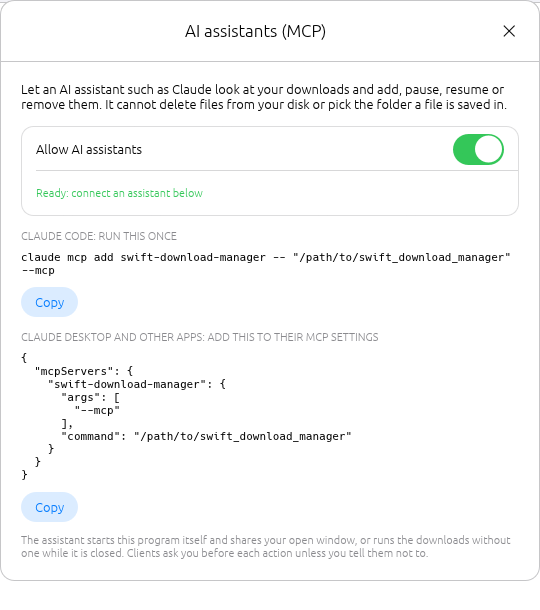
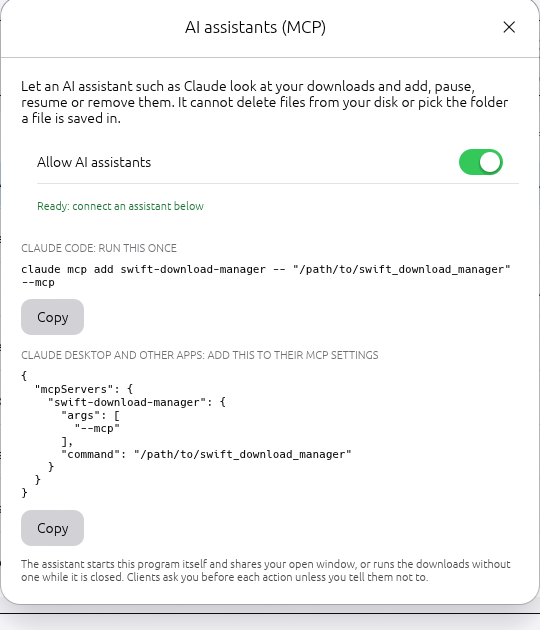
feat(ui): appearance choice in Options, ink colours for text, and docs for the two designs
Options gets an Appearance card (design and mode). Coloured text uses the -ink tokens so it keeps its
contrast in light mode. The README, changelog and screenshots show Drishti (default) and iOS, light
and dark.

diff --git a/source/src/app/tools.rs b/source/src/app/tools.rs
@@ -100,11 +100,11 @@ impl App {
                         ui.label(RichText::new("No links yet.").color(crate::theme::current(ui.ctx()).secondary));
                     }
                     Err(e) => {
-                        ui.colored_label(crate::theme::current(ui.ctx()).red, e);
+                        ui.colored_label(crate::theme::current(ui.ctx()).red_ink, e);
                     }
                 }
                 if let Some(e) = &b.error {
-                    ui.colored_label(crate::theme::current(ui.ctx()).red, e);
+                    ui.colored_label(crate::theme::current(ui.ctx()).red_ink, e);
                 }
                 ui.add_space(6.0);
                 let ok = urls.as_ref().is_ok_and(|l| !l.is_empty());
@@ -190,7 +190,7 @@ impl App {
                 });
                 let bad = (s.start_on && normalize_time(&s.start_time).is_empty()) || (s.stop_on && normalize_time(&s.stop_time).is_empty());
                 if bad {
-                    ui.colored_label(crate::theme::current(ui.ctx()).red, "Write times as hours and minutes, e.g. 02:30 or 23:15.");
+                    ui.colored_label(crate::theme::current(ui.ctx()).red_ink, "Write times as hours and minutes, e.g. 02:30 or 23:15.");
                 }
                 ui.label(RichText::new(format!("Time now: {}", chrono::Local::now().format("%H:%M"))).color(crate::theme::current(ui.ctx()).secondary));
                 ui.add_space(6.0);
@@ -361,7 +361,7 @@ impl App {
                 ui.add_space(4.0);
                 ui.add(egui::TextEdit::singleline(&mut r.url).desired_width(500.0));
                 if let Some(e) = &r.error {
-                    ui.colored_label(crate::theme::current(ui.ctx()).red, e);
+                    ui.colored_label(crate::theme::current(ui.ctx()).red_ink, e);
                 }
                 ui.add_space(4.0);
                 button_row(ui, |ui| {
@@ -415,7 +415,7 @@ impl App {
                             ui.label(format!("{}  ·  {}", human_size(item.total()), item.folder.display()));
                         });
                     });
-                    ui.add(egui::Label::new(RichText::new(&item.url).color(crate::theme::current(ui.ctx()).blue)).truncate());
+                    ui.add(egui::Label::new(RichText::new(&item.url).color(crate::theme::current(ui.ctx()).blue_ink)).truncate());
                     if let Some(c) = &item.check {
                         ui.label(c);
                     }
@@ -461,9 +461,9 @@ impl App {
             .anchor(egui::Align2::CENTER_CENTER, [0.0, -20.0])
             .show(ctx, |ui| {
                 match (&self.listener, self.settings.browser_listen) {
-                    (Ok(()), _) => ui.colored_label(crate::theme::current(ui.ctx()).green, format!("● Ready: the app accepts downloads from the browser (port {}).", bridge::PORT)),
+                    (Ok(()), _) => ui.colored_label(crate::theme::current(ui.ctx()).green_ink, format!("● Ready: the app accepts downloads from the browser (port {}).", bridge::PORT)),
                     (Err(_), false) => ui.colored_label(crate::theme::current(ui.ctx()).secondary, "○ Turned off in Options."),
-                    (Err(e), true) => ui.colored_label(crate::theme::current(ui.ctx()).red, format!("● Not available: {e}. Another copy of the app may be open.")),
+                    (Err(e), true) => ui.colored_label(crate::theme::current(ui.ctx()).red_ink, format!("● Not available: {e}. Another copy of the app may be open.")),
                 };
                 ui.add_space(6.0);
                 ui.label("The browser add-on sends the downloads you start in Chrome, Edge, Brave or Firefox to this app, and adds “Download with Swift Download Manager” when you right-click a link.");
@@ -520,9 +520,9 @@ impl App {
                     card_row(ui, true, |ui| {
                         let (text, col) = match state {
                             AiState::Off => ("Off: assistants are refused", pal.secondary),
-                            AiState::Unavailable => ("Another copy of the app owns the downloads, so this window cannot be controlled", pal.orange),
-                            AiState::Ready => ("Ready: connect an assistant below", pal.green),
-                            AiState::Active => ("An assistant is using it right now", pal.blue),
+                            AiState::Unavailable => ("Another copy of the app owns the downloads, so this window cannot be controlled", pal.orange_ink),
+                            AiState::Ready => ("Ready: connect an assistant below", pal.green_ink),
+                            AiState::Active => ("An assistant is using it right now", pal.blue_ink),
                         };
                         ui.label(RichText::new(text).size(11.0).color(col));
                     });

diff --git a/source/src/app/dialogs.rs b/source/src/app/dialogs.rs
@@ -3,7 +3,8 @@
 use super::*;
 use crate::engine;
 use crate::widgets::segment_bar;
-use crate::widgets::{button_row, card, dialog_window, group_title, plain_button, primary_button, spinner, tinted_button, toggle, toggle_row};
+use crate::theme::{ThemeMode, ThemeStyle};
+use crate::widgets::{button_row, card, card_row, dialog_window, group_title, plain_button, primary_button, segmented, spinner, tinted_button, toggle, toggle_row};
 use eframe::egui::RichText;
 
 fn browse_folder(current: &mut String) {
@@ -28,7 +29,7 @@ impl App {
             .anchor(egui::Align2::CENTER_CENTER, [0.0, -40.0])
             .show(ctx, |ui| {
                 if let Some(src) = &d.from_outside {
-                    ui.colored_label(crate::theme::current(ui.ctx()).blue, format!("ℹ {src}"));
+                    ui.colored_label(crate::theme::current(ui.ctx()).blue_ink, format!("ℹ {src}"));
                     ui.add_space(4.0);
                 }
                 egui::Grid::new("add_grid").num_columns(2).spacing([10.0, 8.0]).show(ui, |ui| {
@@ -89,7 +90,7 @@ impl App {
                     });
                 });
                 if let Some(e) = &d.error {
-                    ui.colored_label(crate::theme::current(ui.ctx()).red, e);
+                    ui.colored_label(crate::theme::current(ui.ctx()).red_ink, e);
                 }
                 ui.add_space(6.0);
                 button_row(ui, |ui| {
@@ -149,7 +150,7 @@ impl App {
                     .show(ctx, |ui| {
                         egui::Grid::new(("pg", id)).num_columns(2).spacing([14.0, 4.0]).show(ui, |ui| {
                             ui.label("Address");
-                            ui.add(egui::Label::new(RichText::new(&item.url).color(crate::theme::current(ui.ctx()).blue)).truncate());
+                            ui.add(egui::Label::new(RichText::new(&item.url).color(crate::theme::current(ui.ctx()).blue_ink)).truncate());
                             ui.end_row();
                             ui.label("Status");
                             let s = match st {
@@ -406,7 +407,7 @@ impl App {
                             ui.label(RichText::new("Checking…").color(crate::theme::current(ui.ctx()).secondary));
                         }
                         if let Some(c) = &item.check {
-                            let col = if c.contains("NOT") { crate::theme::current(ui.ctx()).red } else if c.contains("matches") { crate::theme::current(ui.ctx()).green } else { crate::theme::current(ui.ctx()).secondary };
+                            let col = if c.contains("NOT") { crate::theme::current(ui.ctx()).red_ink } else if c.contains("matches") { crate::theme::current(ui.ctx()).green_ink } else { crate::theme::current(ui.ctx()).secondary };
                             let r = ui.add(egui::Label::new(RichText::new(c).color(col)).truncate().sense(egui::Sense::click()));
                             if r.on_hover_text("Click to copy").clicked() {
                                 ui.ctx().copy_text(c.trim_start_matches("SHA-256: ").to_string());
@@ -489,6 +490,17 @@ fn options_body(ui: &mut egui::Ui, s: &mut Settings, result: &mut Option<bool>) 
             toggle_row(ui, "Watch the clipboard and offer to download copied file links", &mut s.watch_clipboard, false);
             toggle_row(ui, "Accept downloads from the browser add-on (restart to apply)", &mut s.browser_listen, false);
             ui.add_enabled_ui(s.browser_listen, |ui| toggle_row(ui, "Start browser downloads straight away without asking", &mut s.browser_start_now, true));
+        });
+        group_title(ui, "Appearance");
+        card(ui, |ui| {
+            card_row(ui, false, |ui| {
+                ui.label("Design");
+                button_row(ui, |ui| segmented(ui, &[(ThemeStyle::Drishti, "Drishti"), (ThemeStyle::Ios, "iOS")], &mut s.theme_style));
+            });
+            card_row(ui, true, |ui| {
+                ui.label("Mode");
+                button_row(ui, |ui| segmented(ui, &[(ThemeMode::System, "Automatic"), (ThemeMode::Light, "Light"), (ThemeMode::Dark, "Dark")], &mut s.theme));
+            });
         });
         group_title(ui, "AI assistants");
         card(ui, |ui| {

diff --git a/source/src/app/view.rs b/source/src/app/view.rs
@@ -380,13 +380,13 @@ impl App {
                     status_chip(ui, (active > 0).then_some(pal.green), &format!("{active} active"), pal.secondary);
                     status_chip(ui, None, &format!("{queued} queued"), pal.secondary);
                     if !running.is_empty() {
-                        status_chip(ui, Some(pal.green), &format!("Running: {}", running.join(", ")), pal.green);
+                        status_chip(ui, Some(pal.green), &format!("Running: {}", running.join(", ")), pal.green_ink);
                     }
                     if let Some((q, t)) = &scheduled {
-                        status_chip(ui, Some(pal.blue), &format!("{q} starts at {t}"), pal.blue);
+                        status_chip(ui, Some(pal.blue), &format!("{q} starts at {t}"), pal.blue_ink);
                     }
                     if self.settings.limit_on {
-                        status_chip(ui, Some(pal.orange), &format!("Speed limit {} KB/s", self.settings.limit_kbps), pal.orange);
+                        status_chip(ui, Some(pal.orange), &format!("Speed limit {} KB/s", self.settings.limit_kbps), pal.orange_ink);
                     }
                     ui.with_layout(egui::Layout::right_to_left(egui::Align::Center), |ui| {
                         let s = if speed > 0.0 { human_speed(speed) } else { "0 B/s".into() };
@@ -395,7 +395,7 @@ impl App {
                             let (txt, dot, col) = match &self.listener {
                                 Ok(()) => ("Browser: connected", Some(pal.green), pal.secondary),
                                 Err(_) if !self.settings.browser_listen => ("Browser: off", None, pal.secondary),
-                                Err(_) => ("Browser: unavailable", Some(pal.red), pal.red),
+                                Err(_) => ("Browser: unavailable", Some(pal.red), pal.red_ink),
                             };
                             if status_chip(ui, dot, txt, col).on_hover_text("Browser integration…").clicked() {
                                 self.browser_open = true;
@@ -405,9 +405,9 @@ impl App {
                         }
                         let (txt, dot, col) = match self.ai_state() {
                             AiState::Off => ("AI: off", None, pal.secondary),
-                            AiState::Unavailable => ("AI: unavailable", Some(pal.orange), pal.orange),
+                            AiState::Unavailable => ("AI: unavailable", Some(pal.orange), pal.orange_ink),
                             AiState::Ready => ("AI: ready", Some(pal.green), pal.secondary),
-                            AiState::Active => ("AI: active", Some(pal.blue), pal.blue),
+                            AiState::Active => ("AI: active", Some(pal.blue), pal.blue_ink),
                         };
                         if status_chip(ui, dot, txt, col).on_hover_text("AI assistants (MCP)…").clicked() {
                             self.ai_open = true;

diff --git a/source/src/app/grabber.rs b/source/src/app/grabber.rs
@@ -224,7 +224,7 @@ impl App {
                     });
                 }
                 if let Some(e) = &g.error {
-                    ui.colored_label(crate::theme::current(ui.ctx()).red, e);
+                    ui.colored_label(crate::theme::current(ui.ctx()).red_ink, e);
                 }
                 let picked = g.found.iter().filter(|(_, on)| *on).count();
                 ui.horizontal(|ui| {

diff --git a/README.md b/README.md
@@ -13,12 +13,14 @@
 
 <picture>
   <source media="(prefers-color-scheme: dark)" srcset="docs/images/screenshot-dark.png">
-  <img src="docs/images/screenshot.png" alt="Swift Download Manager main window in light mode: a category tree and queues on the left, a table of downloads with status dots and thin progress bars in the middle, and a toolbar of line icons on top" width="900">
+  <img src="docs/images/screenshot.png" alt="Swift Download Manager in its default Drishti design: a sidebar rail with categories and queues, and a rounded list of downloads with state chips, thin progress bars and a toolbar of line icons on top" width="900">
 </picture>
 
-<sub>The main window in light and dark mode (it follows your system), shown with the app's built-in sample data (<code>--demo</code> mode).</sub>
+<sub>The main window in the default **Drishti** design, light and dark (it follows your system). Shown with the app's built-in sample data (<code>--demo</code> mode).</sub>
 
-<img src="docs/images/screenshot-dark.png" alt="The same window in dark mode" width="440"> <img src="docs/images/scheduler-dark.png" alt="The scheduler window in dark mode with a wheel picker for the start time" width="300">
+<img src="docs/images/screenshot-ios.png" alt="The same window in the iOS design: capsule buttons, a bordered card list and compact rows" width="440"> <img src="docs/images/scheduler-dark.png" alt="The scheduler window in the Drishti design, dark, with a wheel picker for the start time" width="300">
+
+<sub>Left: the optional **iOS** design. Right: the scheduler in Drishti dark.</sub>
 
 </div>
 
@@ -36,7 +38,7 @@ sooner and a broken connection never means starting over.
 - **SHA-256 checksum** check, plus refreshing a link that has expired
 
 **A calm, native-feeling window**
-- A flat, iOS-style look with **light and dark mode** that follows your system (or choose under **View → Appearance**)
+- Two designs, switchable under **View → Appearance** (or in **Options**): **Drishti** (the default), built from the Drishti design system with a dark-first palette, 36 px rounded controls, a sidebar rail, a list on its own surface and state chips that always carry a word, and the flat **iOS** look with capsule buttons and grouped cards. Both come in light and dark and follow your system
 - Smooth animations: buttons fade and press, the sidebar highlight slides, progress bars glide, and windows fade in
 - Switches, wheel pickers for times, and spinner wheels while something is loading. The window stays idle when nothing moves
 
@@ -188,6 +190,8 @@ The app can draw itself with sample data and save a picture of its window, which
 cd source
 cargo run --release -- --screenshot ../docs/images/screenshot.png --theme light
 cargo run --release -- --screenshot ../docs/images/screenshot-dark.png --theme dark
+cargo run --release -- --screenshot ../docs/images/screenshot-ios.png --theme light --style ios
+# the other design: --style ios   (drishti is the default)
 # a window other than the main one: --show add|batch|options|scheduler|queues|properties|progress|delete|about|browser|grabber
 cargo run --release -- --screenshot /tmp/scheduler.png --theme dark --show scheduler
 ```
@@ -203,7 +207,7 @@ On a machine without a screen, put `xvfb-run -a` in front of the program.
 | [`source/src/bridge.rs`](source/src/bridge.rs) | The local link listener for the browser add-on, and clipboard watching |
 | [`source/src/mcp/`](source/src/mcp/) | The MCP server for AI assistants: protocol, the private control door, the lock and hand-over |
 | [`source/src/app.rs`](source/src/app.rs), [`source/src/app/`](source/src/app/) | The window, dialogs, queues, scheduler and link grabber |
-| [`source/src/theme.rs`](source/src/theme.rs), [`source/src/widgets/`](source/src/widgets/) | The light and dark colours, and the widget kit (buttons, switch, wheel picker, progress bars) |
+| [`source/src/theme/`](source/src/theme/), [`source/src/widgets/`](source/src/widgets/) | The two designs (Drishti and iOS) in light and dark, and the widget kit (buttons, switch, wheel picker, progress bars) |
 | [`browser-extension/`](browser-extension/) | The browser add-on, packaged for Chrome and Firefox |
 | `mac/` | How to get the Mac version |
 | [`docs/`](docs/) | Images used by this read-me |

diff --git a/source/README.md b/source/README.md
@@ -15,7 +15,7 @@ A fast desktop download manager written in Rust (with the egui toolkit).
 - Browser add-on (Chrome, Edge, Brave, Firefox) in `browser-extension/`: catches downloads, passes your browser login (cookies) along, adds a right-click "Download with…" item and spots videos and sounds a page plays
 - Clipboard watching: copy a download link and the app offers to download it
 - MCP server (`--mcp`) so AI assistants such as Claude can list, add, pause, resume and remove downloads (never deleting files)
-- Light and dark mode, switches, wheel pickers and smooth animations
+- Two designs (Drishti by default, or iOS), each in light and dark, with switches, wheel pickers and smooth animations
 
 ## Building it yourself
 
@@ -42,7 +42,7 @@ On Linux the app also needs the usual desktop libraries (they are already there 
 - `src/bridge.rs`: the local link listener for the browser add-on, and clipboard watching
 - `src/mcp/`: the MCP server (`--mcp`) for AI assistants: protocol, the private control door, the lock and hand-over
 - `src/app.rs` and `src/app/`: the window, dialogs, queues, scheduler and link grabber
-- `src/theme.rs` and `src/widgets/`: the light and dark colours and the widget kit (buttons, switch, wheel picker, progress bars)
+- `src/theme/` and `src/widgets/`: the two designs (Drishti, the default, and iOS) in light and dark, and the widget kit (buttons, switch, wheel picker, progress bars)
 - `browser-extension/`: the browser add-on
 - `packaging/`: installer scripts for Linux, Windows and Mac
 

diff --git a/CHANGELOG.md b/CHANGELOG.md
@@ -5,6 +5,14 @@ The format follows [Keep a Changelog](https://keepachangelog.com/en/1.1.0/).
 
 ## [1.3.0] - 2026-11-02
 
+### Two designs: Drishti (new default) and iOS
+- New **Drishti** design, built from the Drishti design system: dark-first palette with one blue accent, `-ink` text colours that hold their
+  contrast in both modes, 36 px rounded controls, a 220 px sidebar rail with a blue-tinted active row, the download list on its own rounded
+  surface with 48 px rows, state chips that always carry a word, 20 px dialogs with the design system's sheet shadow, and a 44 x 26 switch
+- The flat **iOS** design stays as an option: capsule buttons, bordered grouped cards, compact rows. Switch under **View > Appearance > Design**
+  or in **Options**; each design has Automatic, Light and Dark modes. New installs start in Drishti, dark
+- `--style drishti|ios` for screenshots
+
 ### A new look
 - Flat, iOS-style design with **light and dark mode**; it follows the system by default and can be changed under **View → Appearance**
 - New widgets: capsule buttons, switches, segmented controls, grouped cards, wheel pickers for the scheduler times,
